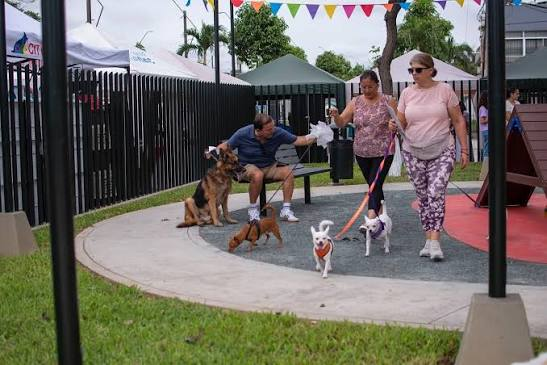
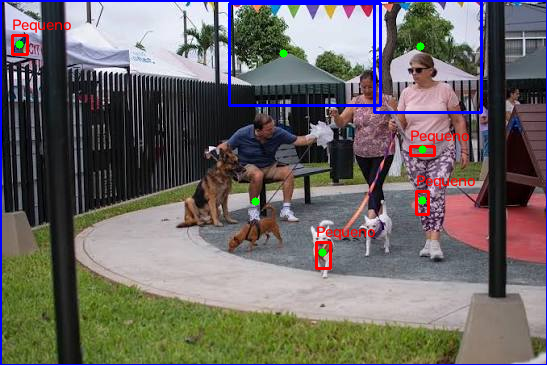
Se realiza la identificacion del objeto

diff --git a/TALLER6.py b/TALLER6.py
@@ -1,0 +1,63 @@
+import cv2
+import numpy as np
+
+# 1. Cargar la imagen a color
+ruta_imagen = '/workspaces/IA-2/imagen taller 6/image.png'
+imagen_color = cv2.imread(ruta_imagen)
+
+if imagen_color is None:
+    print(f"Error: No se pudo cargar la imagen en {ruta_imagen}")
+else:
+    # Copia para dibujar resultados
+    resultado = imagen_color.copy()
+
+    # 2. Pipeline completo de procesamiento
+    # Paso A: Conversión a escala de grises
+    gris = cv2.cvtColor(imagen_color, cv2.COLOR_BGR2GRAY)
+
+    # Paso B: Binarización con método de Otsu
+    _, binaria = cv2.threshold(gris, 0, 255, cv2.THRESH_BINARY_INV + cv2.THRESH_OTSU)
+
+    # Paso C: Limpieza Morfológica (Apertura)
+    kernel = np.ones((3, 3), np.uint8)
+    limpia = cv2.morphologyEx(binaria, cv2.MORPH_OPEN, kernel)
+
+    # Paso D: Extracción de Contornos
+    contornos, _ = cv2.findContours(limpia, cv2.RETR_EXTERNAL, cv2.CHAIN_APPROX_SIMPLE)
+
+    print(f"Objetos totales detectados: {len(contornos)}")
+    umbral_area = 1500  # Valor límite para clasificar tamaño
+
+    for i, cnt in enumerate(contornos):
+        # 3. Calcular métricas
+        area = cv2.contourArea(cnt)
+        
+        # Filtrar pequeñas partículas de ruido
+        if area > 100:
+            x, y, w, h = cv2.boundingRect(cnt)
+            print(f"Objeto #{i+1}: Área = {area} px")
+
+            # 4. Lógica de clasificación por área
+            if area > umbral_area:
+                color_box = (255, 0, 0)  # Azul (BGR): Objeto grande
+                etiqueta = "Grande"
+            else:
+                color_box = (0, 0, 255)  # Rojo (BGR): Objeto pequeño
+                etiqueta = "Pequeno"
+
+            # Dibujar Bounding Box y etiqueta
+            cv2.rectangle(resultado, (x, y), (x + w, y + h), color_box, 2)
+            cv2.putText(resultado, etiqueta, (x, y - 5), cv2.FONT_HERSHEY_SIMPLEX, 0.5, color_box, 1)
+
+            # Calcular Centroide
+            M = cv2.moments(cnt)
+            if M["m00"] != 0:
+                cx = int(M["m10"] / M["m00"])
+                cy = int(M["m01"] / M["m00"])
+                cv2.circle(resultado, (cx, cy), 4, (0, 255, 0), -1)
+
+    # 5. Guardar la imagen procesada
+    
+    # 5. Guardar la imagen procesada
+    cv2.imwrite('/workspaces/IA-2/taller6_clasificacion.png', resultado)
+    print("Procesamiento finalizado. Resultado guardado en 'taller6_clasificacion.png'.")
